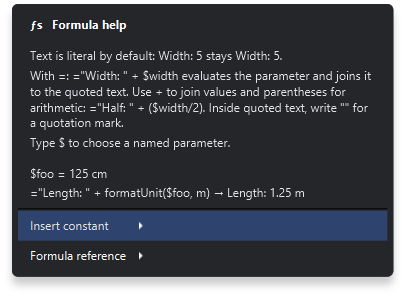
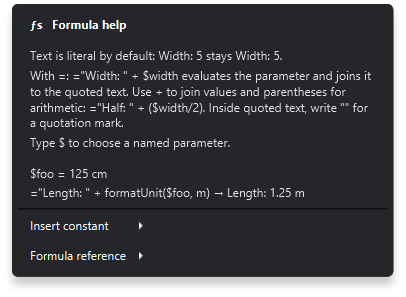
fix: skip informational rows when navigating formula help

Changed region(s): [[0.0296, 0.697, 0.9754, 0.8182]]

diff --git a/gui/src/main/resources/dev/voxelbrew/gui/workbench.css b/gui/src/main/resources/dev/voxelbrew/gui/workbench.css
@@ -548,6 +548,10 @@
   -fx-text-fill: #d65c46;
 }
 
+.menu-item.formula-help-information:disabled {
+  -fx-background-color: transparent;
+  -fx-opacity: 1;
+}
 .formula-help-line {
   -fx-fill: -fx-text-background-color;
 }

diff --git a/gui/src/main/java/dev/voxelbrew/gui/FormulaHelp.java b/gui/src/main/java/dev/voxelbrew/gui/FormulaHelp.java
@@ -3,6 +3,7 @@ package dev.voxelbrew.gui;
 import dev.voxelbrew.api.i18n.TranslationService;
 import dev.voxelbrew.api.model.parameters.Expressions;
 import javafx.geometry.Side;
+import javafx.scene.Node;
 import javafx.scene.control.*;
 import lombok.RequiredArgsConstructor;
 
@@ -12,6 +13,13 @@ final class FormulaHelp {
     private final FormulaField field;
     private final TranslationService translations;
     private final ContextMenu popup = new ContextMenu();
+
+    private static CustomMenuItem information(Node content) {
+        var item = new CustomMenuItem(content, false);
+        item.setDisable(true);
+        item.getStyleClass().add("formula-help-information");
+        return item;
+    }
 
     void show() {
         if (popup.isShowing()) {
@@ -38,6 +46,7 @@ final class FormulaHelp {
                 && (numeric || (formula && start > input.indexOf('=')))
                 && !ParameterSuggestions.insideQuotedString(input, start)
                 && !ParameterSuggestions.insideQuotedString(input, end);
+        constants.setDisable(!editable);
         for (var symbol : new String[][] {
             {"π", "pi", "π ≈ 3.14159"},
             {"τ", "tau", "τ = 2π"},
@@ -46,7 +55,6 @@ final class FormulaHelp {
         }) {
             var item = new MenuItem(symbol[1] + "     " + symbol[2]);
             item.setId("formula-insert-" + symbol[1]);
-            item.setDisable(!editable);
             item.setOnAction(event -> {
                 field.replaceText(start, end, symbol[0]);
                 field.requestFocus();
@@ -72,9 +80,9 @@ final class FormulaHelp {
                         reference("geometry", "$side * sqrt(2)      $side * sqrt(3)", "(360 deg) / phi^2"));
         popup.getItems()
                 .setAll(
-                        new CustomMenuItem(title, false),
-                        new CustomMenuItem(intro, false),
-                        new CustomMenuItem(conversion, false),
+                        information(title),
+                        information(intro),
+                        information(conversion),
                         new SeparatorMenuItem(),
                         constants,
                         reference);
@@ -100,7 +108,7 @@ final class FormulaHelp {
 
     private Menu reference(String key, String syntax, String example) {
         var section = new Menu(translations.translate("formula." + key));
-        section.getItems().add(new CustomMenuItem(new Label(syntax + "\n" + example), false));
+        section.getItems().add(information(new Label(syntax + "\n" + example)));
         return section;
     }
 }

diff --git a/gui/src/test/e2eTest/java/dev/voxelbrew/gui/WorkbenchUiTest.java b/gui/src/test/e2eTest/java/dev/voxelbrew/gui/WorkbenchUiTest.java
@@ -5300,7 +5300,18 @@ class WorkbenchUiTest {
                     .filter(menu -> menu.getOwnerNode() == field)
                     .findFirst()
                     .orElseThrow());
+            var instructionRow = fx(() -> {
+                var instructions = (CustomMenuItem) popup.getItems().get(1);
+                assertThat(instructions.isDisable()).isTrue();
+                var row = (javafx.scene.layout.Region) instructions.getStyleableNode();
+                var bounds = row.localToScreen(row.getBoundsInLocal());
+                robot.mouseMove(bounds.getCenterX(), bounds.getCenterY());
+                return row;
+            });
             fx(() -> {
+                assertThat(instructionRow.getOpacity()).isEqualTo(1);
+                assertThat(instructionRow.getBackground().getFills())
+                        .allMatch(fill -> javafx.scene.paint.Color.TRANSPARENT.equals(fill.getFill()));
                 Screenshot.save(
                         popup.getScene(),
                         Path.of(System.getProperty("voxelbrew.ui.artifacts"), "formula-help-" + theme + ".png"));
